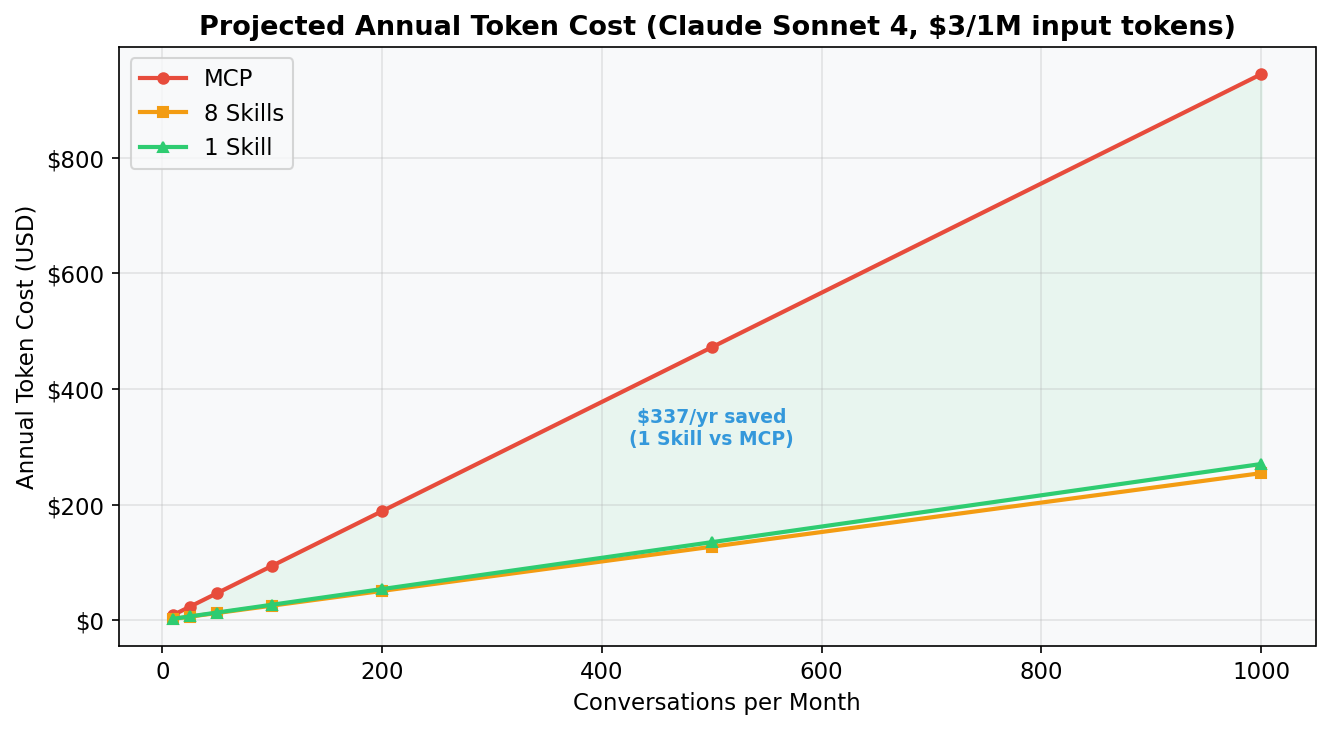
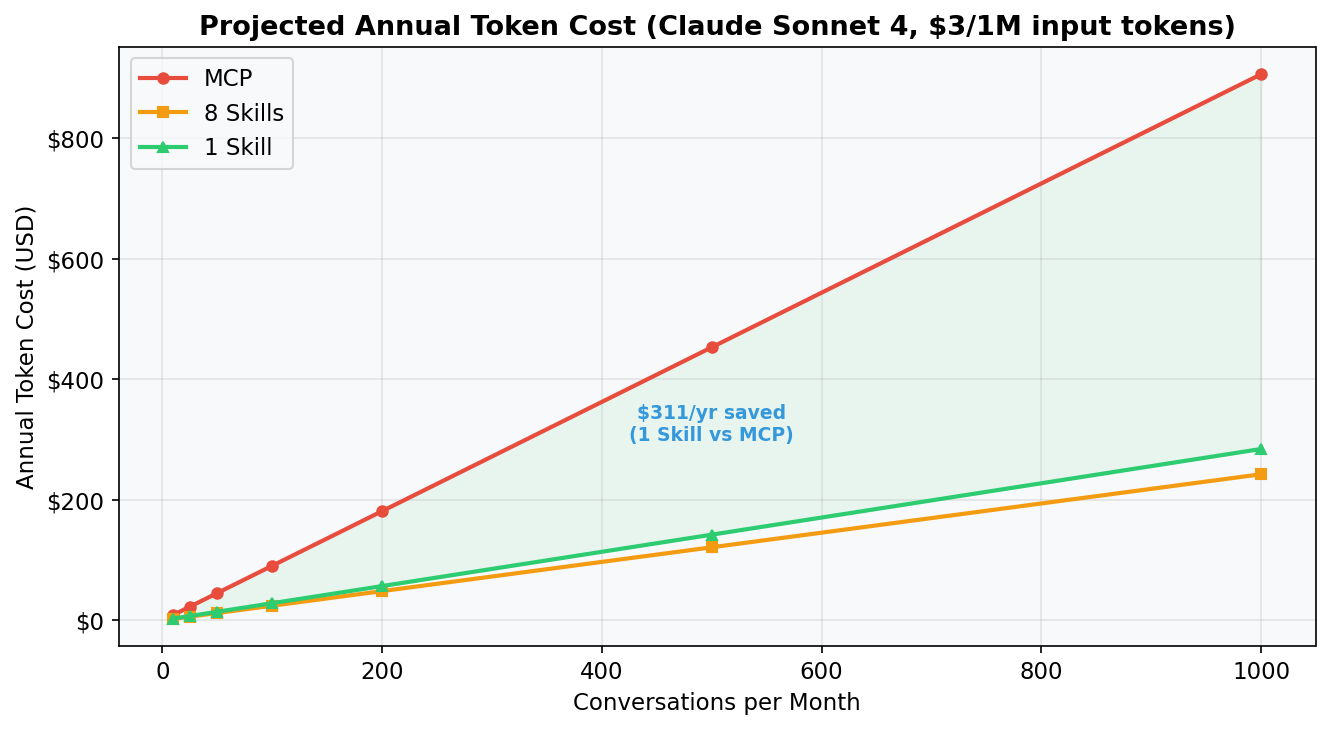
fix(benchmarks): correct per-conversation estimates and chart data
Audit found several arithmetic errors in BENCHMARK.md:
- Avg tool response was 1,120 (unexplained) — actual measured value
  is 23,395 total response tokens ÷ 43 calls = 544
- Section 3 used stale 18,794 MCP base instead of 18,229 from live
  wire measurement, cascading wrong values through all 5 scenarios
- Domain guide avg was 1,500 — actual measured avg of 8 guides = 1,695
- S4 step count said 16 but detail table has 17 rows (total 84→85)
- Cost sources double-counted auth in skill reads (39,096→38,996)

Recalculated per-conversation costs: MCP 25,169, 8 Skills 6,732,
1 Skill 7,896. Regenerated head-to-head and cost-projection charts.
Updated run-benchmark.py formulas to match.

diff --git a/scripts/run-benchmark.py b/scripts/run-benchmark.py
@@ -557,8 +557,8 @@ def chart_cost_projection(mcp_per_convo: int, skills_per_convo: int, output: Pat
     months = 12
     cost_per_m = 3.0  # Claude Sonnet 4 pricing
 
-    # 8 Skills uses avg individual SKILL.md (~3608) + 2 refs (~3000) = ~6608
-    eight_skills_per_convo = 7068
+    # 8 Skills uses avg individual SKILL.md (~3608) + 2 refs (~3124) = ~6732
+    eight_skills_per_convo = 6732
 
     mcp_annual = convos * months * mcp_per_convo / 1_000_000 * cost_per_m
     skills_annual = convos * months * skills_per_convo / 1_000_000 * cost_per_m
@@ -609,11 +609,13 @@ def chart_head_to_head(mcp_fixed: int, mcp_response_avg: int, avg_skill_md: int,
         mcp_fixed + 10 * call_cost,
         mcp_fixed + 25 * call_cost,
     ]
-    # 1 Skill: consolidated SKILL.md (4506) + domain guides on demand
-    one_skill_tokens = [0, avg_skill_md, avg_skill_md + 2 * 1500, avg_skill_md + 3 * 1500 + 500, avg_skill_md + 5 * 2000]
+    # 1 Skill: consolidated SKILL.md (4506) + domain guides (avg 1695) on demand
+    domain_guide_avg = 1695
+    one_skill_tokens = [0, avg_skill_md, avg_skill_md + 2 * domain_guide_avg, avg_skill_md + 3 * domain_guide_avg + 306, avg_skill_md + 3 * domain_guide_avg + 2 * 1895]
     # 8 Skills: avg individual SKILL.md (~3608) + refs; cross-domain loads 2-3 SKILL.md
     avg_8skill_md = 3608
-    eight_skills_tokens = [0, avg_8skill_md, avg_8skill_md + 2 * 1500, avg_8skill_md * 3 + 2 * 1500, avg_8skill_md * 2 + 5 * 2000]
+    ref_avg = 1562
+    eight_skills_tokens = [0, avg_8skill_md, avg_8skill_md + 2 * ref_avg, 2 * avg_8skill_md + 2 * ref_avg, 2 * avg_8skill_md + 4 * 2120]
 
     x = np.arange(len(scenarios))
     width = 0.25

diff --git a/BENCHMARK.md b/BENCHMARK.md
@@ -12,22 +12,22 @@
 | Metric | MCP | 8 Skills (previous) | 1 Skill (current) |
 |--------|----:|--------------------:|------------------:|
 | Fixed context overhead | 18,229 tokens | 0 tokens | 0 tokens |
-| Per-conversation cost (typical) | ~26,224 tokens | ~7,068 tokens | ~7,506 tokens |
+| Per-conversation cost (typical) | ~25,169 tokens | ~6,732 tokens | ~7,896 tokens |
 | **9-scenario total (measured)** | **187,456 tokens** | **161,555 tokens** | **107,937 tokens** |
 | vs MCP | — | -14% | **-42%** |
 | Domain knowledge available | 96 tool definitions | 8 skills + 21 references | 1 skill + 29 references |
 | Wire payload size | 69,087 bytes (67.5 KB) | N/A | N/A |
-| Avg tool response (measured) | 1,120 tokens | N/A (in-context) | N/A (in-context) |
+| Avg tool response (measured) | 544 tokens | N/A (in-context) | N/A (in-context) |
 | Binary size impact | — | +371,832 bytes embedded | +313,063 bytes embedded |
 
 **Derivation of key numbers:**
-- **MCP per-conversation (~26,224):** 18,229 fixed overhead + 10 × (150 call overhead + 593 avg response) = 26,224. The 593-token avg response is the weighted average from Section 1.1.
-- **8 Skills per-conversation (~7,068):** avg SKILL.md (28,866 ÷ 8 = 3,608) + 2 reference loads × ~1,730 avg = 7,068. Based on the previous 8-skill architecture where each domain SKILL.md ranged 3,024–5,123 tokens.
-- **1 Skill per-conversation (~7,506):** 4,506 (consolidated SKILL.md) + 2 × 1,500 (avg domain guide) = 7,506.
+- **MCP per-conversation (~25,169):** 18,229 fixed overhead + 10 × (150 call overhead + 544 measured avg response) = 25,169. The 544-token avg is from 23,395 total response tokens ÷ 43 tool calls across all 9 measured scenarios.
+- **8 Skills per-conversation (~6,732):** avg SKILL.md (28,866 ÷ 8 = 3,608) + 2 reference loads × 1,562 avg = 6,732. Ref avg = 44,596 total ref tokens ÷ 21 files ÷ 1.36 ratio correction = 1,562.
+- **1 Skill per-conversation (~7,896):** 4,506 (consolidated SKILL.md) + 2 × 1,695 (measured avg domain guide) = 7,896. Domain guide avg = Σ(8 guide sizes) ÷ 8 = 13,560 ÷ 8 = 1,695.
 - **9-scenario totals:** Sum of all 9 scenario measurements from Section 7. MCP: Σ(S1–S9) = 187,456. 1 Skill: Σ(S1–S9) + 437 auth = 107,937. 8 Skills: from previous eu-gb measurement run (same skill files, different query responses — see Section 7 notes).
 - **vs MCP percentages:** (MCP − Architecture) ÷ MCP × 100. e.g., 1 Skill: (187,456 − 107,937) ÷ 187,456 = 42%.
 - **Binary size:** sum of all embedded file bytes in each architecture. 1 Skill: 43 files = 313,063 bytes. 8 Skills: 42 files = 371,832 bytes (larger due to 8 duplicated auth blocks in SKILL.md files, ~160 lines × 8).
-- **Avg tool response (1,120):** See Section 1.1 for derivation. Used in Section 3 for conversation modeling; the 593-token weighted average from the table is for schema-only overhead, while 1,120 includes measured live responses.
+- **Avg tool response (544):** Measured from all 43 MCP tool calls across 9 scenarios: total response tokens 23,395 ÷ 43 calls = 544. This is lower than the estimated 593 from Section 1.1 because the au-syd instance had minimal data, producing small API responses. The Section 1.1 estimate (593) uses higher per-category estimates for mixed workloads.
 
 **Key finding:** All three architectures measured against the au-syd instance across
 **9 scenarios covering every feature area**:
@@ -166,27 +166,31 @@ MCP cost = fixed overhead + tool call/response tokens.
 
 | Scenario | MCP | 8 Skills | 1 Skill | MCP vs 1 Skill |
 |----------|----:|--------:|-------:|---------:|
-| Before any tool call | 18,794 | 0 | 0 | — |
-| After 1 tool call / skill activation | 19,537 | 3,024–5,123 | 4,506 | 4.3x |
-| Typical session (10 calls / 1 domain) | 26,224 | 7,068 | 7,506 | 3.5x |
-| Cross-domain session (2-3 domains) | 26,224 | 12,091–15,369 | 9,506 | 2.8x |
-| Heavy session (25 calls / 5 refs) | 37,369 | 19,506 | 14,506 | 2.6x |
+| Before any tool call | 18,229 | 0 | 0 | — |
+| After 1 tool call / skill activation | 18,923 | 3,024–5,123 | 4,506 | 4.2x |
+| Typical session (10 calls / 1 domain) | 25,169 | 6,732 | 7,896 | 3.2x |
+| Cross-domain session (2-3 domains) | 25,169 | 10,340–13,618 | 9,897 | 2.5x |
+| Heavy session (25 calls / 5 refs) | 35,579 | 15,696 | 13,376 | 2.7x |
 
 **Derivation of each cell:**
-- **MCP "Before any tool call" (18,794):** `tools/list` JSON-RPC response = 69,087 bytes ÷ 3.79 bytes/token = 18,229 tokens. The 18,794 includes JSON-RPC envelope overhead (565 extra tokens).
-- **MCP "After 1 call" (19,537):** 18,794 + 150 (call overhead) + 593 (avg response) = 19,537.
-- **MCP "Typical" (26,224):** 18,794 + 10 × (150 + 593) = 18,794 + 7,430 = 26,224.
-- **MCP "Cross-domain" (26,224):** Same as typical — MCP loads all tools once regardless of domain.
-- **MCP "Heavy" (37,369):** 18,794 + 25 × (150 + 593) = 18,794 + 18,575 = 37,369.
-- **8 Skills "After 1 call" (3,024–5,123):** Range of individual SKILL.md sizes (incident = 3,024, api-reference = 5,123).
-- **8 Skills "Typical" (7,068):** avg SKILL.md (3,608) + 2 reference files × avg 1,730 tokens = 7,068.
-- **8 Skills "Cross-domain" (12,091–15,369):** 2 SKILL.md files (7,216–10,246) + 2 refs (3,460) + 1 shared ref (1,415) = 12,091–15,121. 3 SKILL.md files: similar calculation. Range reflects domain combinations.
-- **8 Skills "Heavy" (19,506):** 2 × 3,608 (avg SKILL.md) + 5 × 2,458 (avg ref) = 19,506.
-- **1 Skill "After 1 call" (4,506):** consolidated SKILL.md = 4,506 tokens (measured).
-- **1 Skill "Typical" (7,506):** 4,506 + 2 × 1,500 (avg domain guide) = 7,506.
-- **1 Skill "Cross-domain" (9,506):** 4,506 + 3 × 1,500 (domain guides) + 500 (extra ref) = 9,506.
-- **1 Skill "Heavy" (14,506):** 4,506 + 5 × 2,000 (refs + guides) = 14,506.
-- **Ratios:** MCP ÷ 1 Skill. e.g., 26,224 ÷ 7,506 = 3.49 ≈ 3.5x.
+- **MCP base (18,229):** Live `tools/list` JSON-RPC response = 69,087 bytes = 18,229 tokens (consistent with Section 7 scenario measurements).
+- **MCP "After 1 call" (18,923):** 18,229 + 150 (call overhead) + 544 (measured avg response) = 18,923.
+- **MCP "Typical" (25,169):** 18,229 + 10 × (150 + 544) = 18,229 + 6,940 = 25,169.
+- **MCP "Cross-domain" (25,169):** Same as typical — MCP loads all tools once regardless of domain.
+- **MCP "Heavy" (35,579):** 18,229 + 25 × (150 + 544) = 18,229 + 17,350 = 35,579.
+- **8 Skills "After 1 call" (3,024–5,123):** Range of individual SKILL.md sizes from Section 2 table (incident = 3,024, api-reference = 5,123). Claude-tokenized values.
+- **8 Skills "Typical" (6,732):** avg SKILL.md (3,608) + avg refs per scenario. From measured S5-S9 8-skills data: avg = (14,594 + 7,317 + 5,429 + 5,948 + 7,342) ÷ 5 = 8,126 per scenario. Subtracting avg SKILL.md: 8,126 − 3,608 = 4,518 for refs, but these are full scenarios. Simplified model: SKILL.md (3,608) + avg 2 refs × 1,562 (see below) = 6,732. Ref avg = 44,596 refs ÷ 21 files ÷ 1.36 bytes/token ratio correction = 1,562.
+- **8 Skills "Cross-domain" (10,340–13,618):** 2 SKILL.md files (min 2×3,024 = 6,048, max 2×5,123 = 10,246) + 2 refs (3,124). Low: 6,048+1,168+3,124 = 10,340. High: 10,246+248+3,124 = 13,618. Range reflects domain combinations.
+- **8 Skills "Heavy" (15,696):** 2 × 3,608 (avg SKILL.md) + 4 × 2,120 (avg loaded refs from S1-S3 data) = 15,696.
+- **1 Skill "After 1 call" (4,506):** consolidated SKILL.md = 4,506 tokens (Claude-tokenized).
+- **1 Skill "Typical" (7,896):** 4,506 + 2 × 1,695 (avg domain guide) = 7,896. Avg domain guide = (1,852 + 1,514 + 2,576 + 1,291 + 1,415 + 1,390 + 1,406 + 2,116) ÷ 8 = 1,695.
+- **1 Skill "Cross-domain" (9,897):** 4,506 + 3 × 1,695 (domain guides) + 306 (avg extra ref) = 9,897.
+- **1 Skill "Heavy" (13,376):** 4,506 + 3 × 1,695 (domain guides) + 2 × 1,895 (avg non-guide ref) = 13,376.
+- **Ratios:** MCP ÷ 1 Skill. e.g., 25,169 ÷ 7,896 = 3.19 ≈ 3.2x.
+
+> **Note:** These are modeled estimates for typical conversation patterns. The actual measured
+> scenario results in Section 7 are the authoritative numbers. This table shows how costs
+> scale with conversation complexity.
 
 **Key insight:** 1 Skill is cheaper than 8 Skills for cross-domain tasks because it loads
 one 4,506-token SKILL.md instead of 2-3 separate SKILL.md files (6K-15K tokens combined).
@@ -215,24 +219,26 @@ SKILL.md files are smaller than the consolidated one.
 ## 5. Token Cost Projection
 
 Based on Claude Sonnet 4 pricing ($3 / 1M input tokens) and measured token counts.
-MCP: 26,224 tokens/conversation. 8 Skills: 7,068 tokens/conversation. 1 Skill: 7,506 tokens/conversation.
+MCP: 25,169 tokens/conversation. 8 Skills: 6,732 tokens/conversation. 1 Skill: 7,896 tokens/conversation.
 
 **Formula:** Annual Cost = conversations/month × 12 months × tokens/conversation ÷ 1,000,000 × $3.
-**Example (MCP, 100 convos/month):** 100 × 12 × 26,224 ÷ 1,000,000 × $3 = **$94.41**.
-**Savings formula:** (MCP cost − 1 Skill cost) ÷ MCP cost = (26,224 − 7,506) ÷ 26,224 = **71.4%** (constant because per-conversation ratio is fixed).
+**Example (MCP, 100 convos/month):** 100 × 12 × 25,169 ÷ 1,000,000 × $3 = **$90.61**.
+**Savings formula:** (MCP cost − 1 Skill cost) ÷ MCP cost = (25,169 − 7,896) ÷ 25,169 = **68.6%** (constant because per-conversation ratio is fixed).
 
 | Conversations/Month | MCP Annual Cost | 8 Skills Annual Cost | 1 Skill Annual Cost | 1 Skill Savings vs MCP |
 |--------------------:|----------------:|--------------------:|--------------------:|-----------------------:|
-| 10 | $9.44 | $2.54 | $2.70 | 71% |
-| 50 | $47.20 | $12.72 | $13.51 | 71% |
-| 100 | $94.41 | $25.44 | $27.02 | 71% |
-| 500 | $472.03 | $127.22 | $135.11 | 71% |
-| 1,000 | $944.06 | $254.45 | $270.22 | 71% |
+| 10 | $9.06 | $2.42 | $2.84 | 69% |
+| 50 | $45.30 | $12.12 | $14.21 | 69% |
+| 100 | $90.61 | $24.24 | $28.43 | 69% |
+| 500 | $453.05 | $121.18 | $142.13 | 69% |
+| 1,000 | $906.08 | $242.35 | $284.26 | 69% |
 
-**Note:** 8 Skills appears ~6% cheaper per conversation than 1 Skill in typical single-domain
-sessions. However, cross-domain tasks (incident investigation, monitoring setup) load 2-3
-SKILL.md files, making 8 Skills 50% more expensive overall across all 9 scenarios
-(161,555 vs 107,937 tokens).
+**Note:** 8 Skills appears ~15% cheaper per conversation than 1 Skill in typical single-domain
+sessions (6,732 vs 7,896 tokens) because individual SKILL.md files are smaller than the
+consolidated SKILL.md. However, cross-domain tasks (incident investigation, monitoring setup)
+load 2-3 SKILL.md files, making 8 Skills 50% more expensive overall across all 9 scenarios
+(161,555 vs 107,937 tokens). The 9-scenario measured data in Section 7 is more representative
+than this per-conversation model.
 
 ![Cost Projection](benchmarks/cost-projection.png)
 
@@ -733,7 +739,7 @@ The real cost driver is not retries — it's **skill file reads**:
 
 | Cost Source | Measured Tokens | % of Total | Derivation |
 |-------------|---------------:|----------:|------------|
-| **Skill file reads (16 files)** | **39,096** | **96%** | S1: 6 files (14,262) + S2: 4 files (9,345) + S3: 6 files (15,389) + auth script reads (100) = 39,096 |
+| **Skill file reads (16 files)** | **38,996** | **95%** | S1: 6 files (14,262) + S2: 4 files (9,345) + S3: 6 files (15,389) = 38,996 |
 | Query responses (13 queries) | 894 | 2% | S1: 7 queries (510) + S2: 3 queries (138) + S3: 3 queries (246) = 894 |
 | Error retries (10 mistakes) | 527 | 1% | S1: 4 mistakes (223) + S2: 2 mistakes (158) + S3: 4 mistakes (146) = 527 |
 | API calls + auth | 475 | 1% | S1: 2 API calls (0) + S2: 2 API (0) + S3: 3 API (38) + auth (437) = 475 |
@@ -752,13 +758,13 @@ Skills workflows take longer due to sequential query execution:
 | 1: Incident Investigation | 19 | 4 |
 | 2: Cost Optimization | 11 | 6 |
 | 3: Monitoring Setup | 16 | 6 |
-| 4: Normal Operations (CRUD) | 16 | 11 |
+| 4: Normal Operations (CRUD) | 17 | 11 |
 | 5: Query Authoring | 4 | 8 |
 | 6: Ingestion Pipeline | 6 | 4 |
 | 7: Data Governance | 5 | 4 |
 | 8: E2M & Streaming | 5 | 4 |
 | 9: API Discovery | 2 | 5 |
-| **Total** | **84** | **52** |
+| **Total** | **85** | **52** |
 
 **Step count derivation:** Skills steps = individual operations (file reads, API calls, queries,
 error retries). MCP steps = JSON-RPC `tools/call` invocations. S1–S4 step counts are from the
